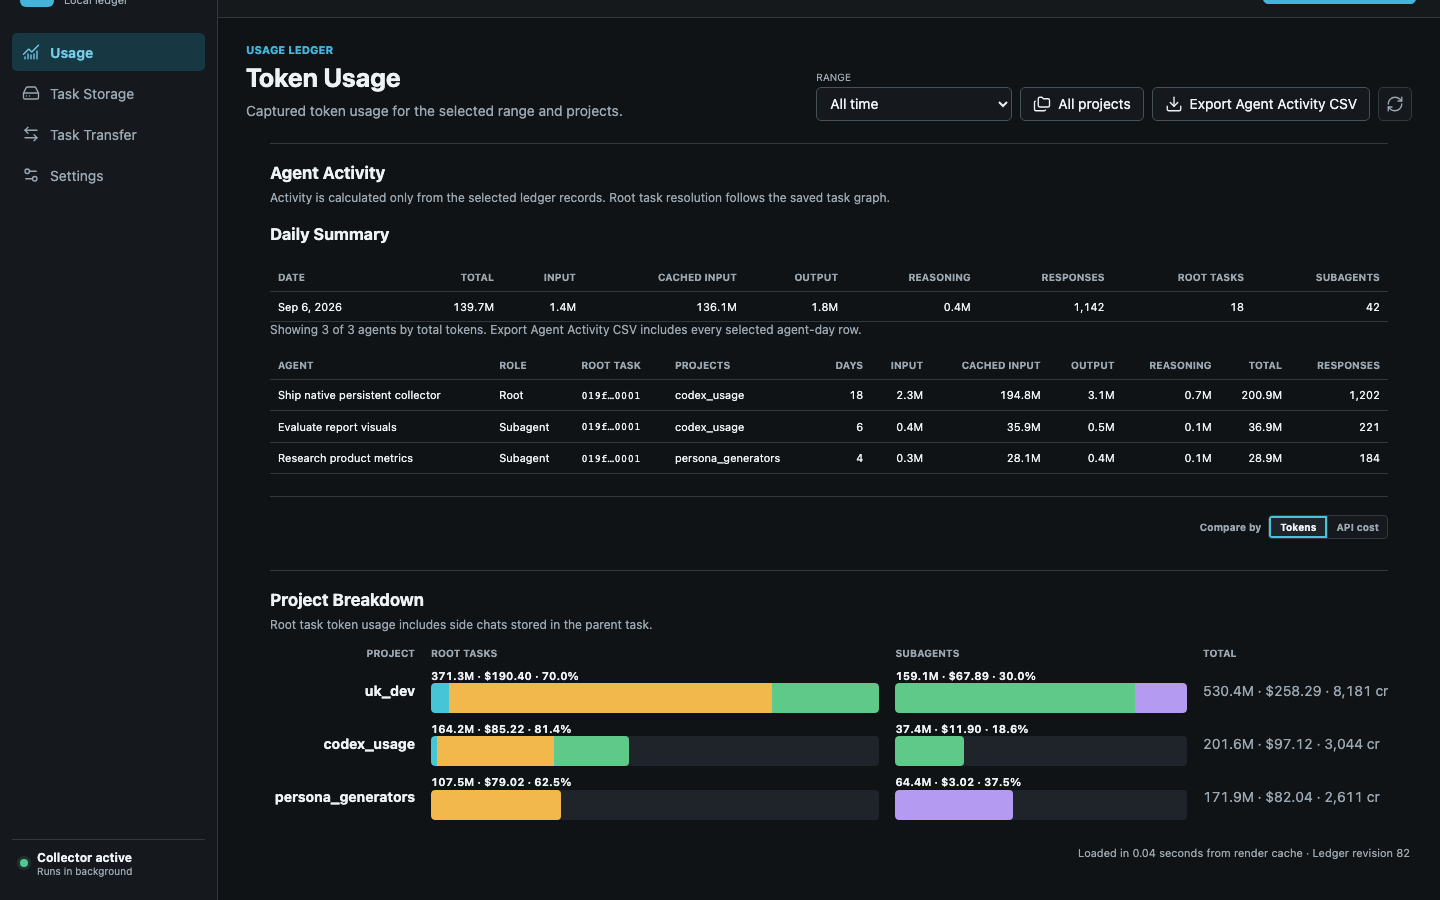
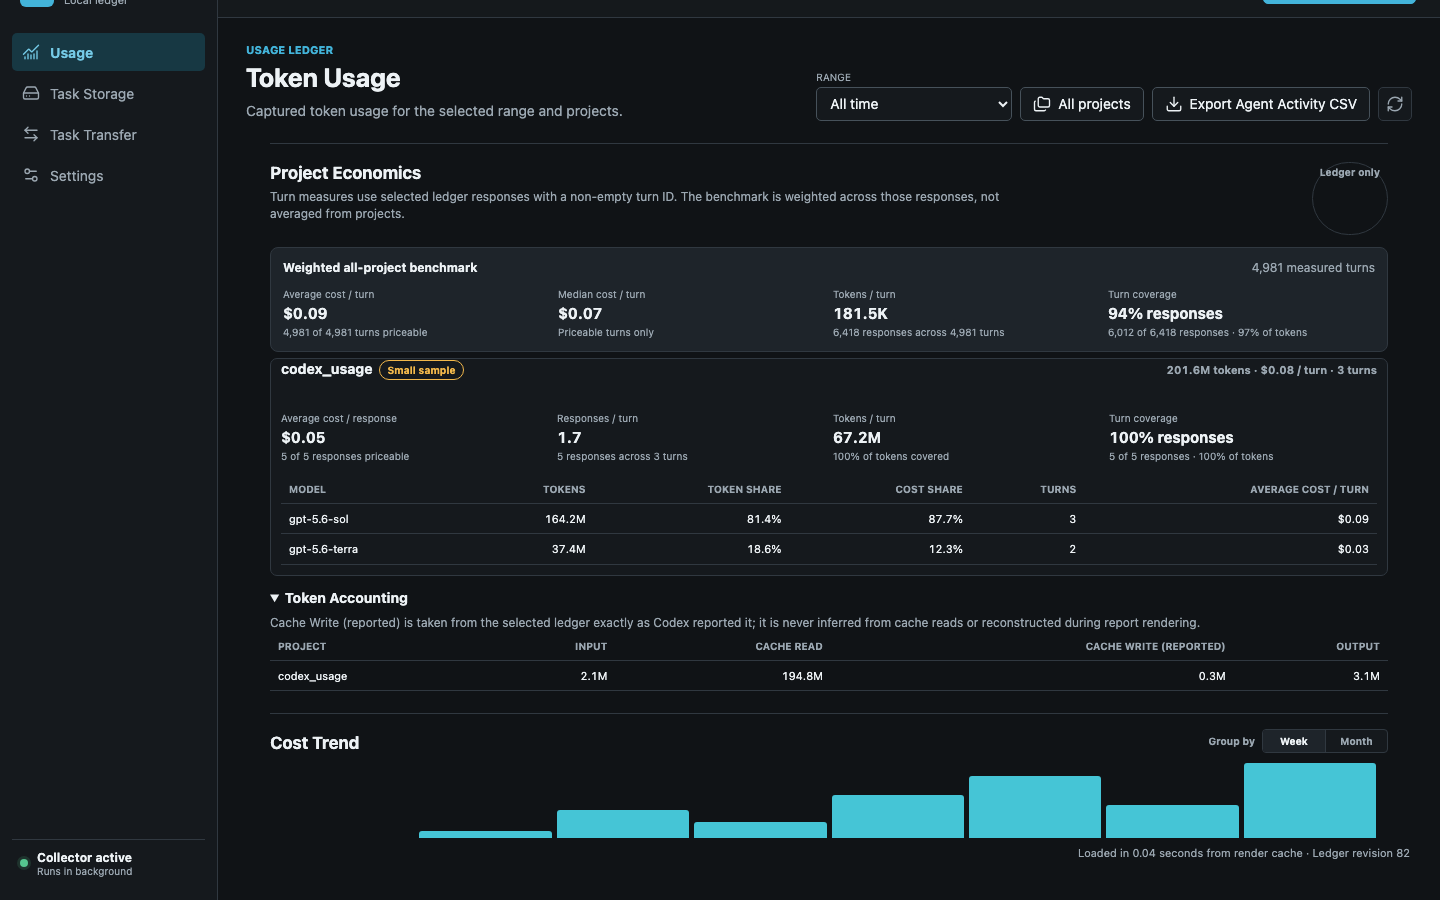
chore: prepare 2.6.0 release

diff --git a/apps/desktop/src/views.test.ts b/apps/desktop/src/views.test.ts
@@ -121,8 +121,9 @@ describe("native views", () => {
     expect(frame.srcdoc).toContain("API cost");
     expect(frame.srcdoc).toContain('id="compare-scale-cost"');
     expect(frame.srcdoc).toContain("--cost-width:");
-    expect(frame.srcdoc.indexOf("gpt-6-astra")).toBeLessThan(
-      frame.srcdoc.indexOf("gpt-5.6-sol"),
+    const modelMix = frame.srcdoc.slice(frame.srcdoc.indexOf("<h2>Model Mix</h2>"));
+    expect(modelMix.indexOf("gpt-6-astra")).toBeLessThan(
+      modelMix.indexOf("gpt-5.6-sol"),
     );
     expect(frame.srcdoc).toContain('data-codex-host="native"');
     expect(root.querySelector("#report-diagnostics")?.textContent).toContain(

diff --git a/extensions/vscode/src/extension.ts b/extensions/vscode/src/extension.ts
@@ -464,7 +464,7 @@ function controlState(): Pick<Parameters<typeof decorateUsageReport>[1], "range"
     range: selectedRange === "custom" ? customRangeLabel() : rangeLabel(selectedRange),
     theme: reportTheme(),
     projectCount: selectedProjects().length,
-    version: String(contextRef.extension.packageJSON.version ?? "2.5.0"),
+    version: String(contextRef.extension.packageJSON.version ?? "2.6.0"),
     lastCaptureAt: latestStatus?.last_capture_at ?? "",
   };
 }

diff --git a/apps/desktop/src/host.ts b/apps/desktop/src/host.ts
@@ -86,8 +86,8 @@ export async function checkForUpdate(): Promise<UpdateInfo> {
   if (!inTauri) {
     return {
       available: false,
-      current_version: "2.5.0",
-      version: "2.5.0",
+      current_version: "2.6.0",
+      version: "2.6.0",
       date: null,
       body: null,
     };

diff --git a/extensions/vscode/test/reportHtml.test.js b/extensions/vscode/test/reportHtml.test.js
@@ -14,7 +14,7 @@ const controls = {
   projectCount: 0,
   loadedSeconds: 0.04,
   cacheHit: true,
-  version: "2.5.0",
+  version: "2.6.0",
   view: "usage",
   lastCaptureAt: "2026-09-04T12:30:00Z",
 };

diff --git a/tests/test_report_command_breakdown.py b/tests/test_report_command_breakdown.py
@@ -61,6 +61,7 @@ def test_handle_report_builds_one_breakdown_without_project_or_model_aggregation
         daily_rows,
         hourly_rows,
         breakdown,
+        project_economics,
         sessions_dirs,
         files_scanned,
         storage_roots=None,
@@ -72,6 +73,7 @@ def test_handle_report_builds_one_breakdown_without_project_or_model_aggregation
         theme="auto",
     ):
         captured["breakdown"] = breakdown
+        captured["project_economics"] = project_economics
         return output_path
 
     def track_breakdown(valued_records):
@@ -90,6 +92,7 @@ def test_handle_report_builds_one_breakdown_without_project_or_model_aggregation
     assert aggregate_groups == ["day", "hour"]
     assert breakdown_calls == 1
     assert captured["breakdown"].project_rows[0].key == "repo"  # type: ignore[union-attr]
+    assert captured["project_economics"].projects[0].key == "repo"  # type: ignore[union-attr]
 
 
 def test_handle_report_passes_cached_data_and_one_storage_snapshot(

diff --git a/tests/test_github_actions_workflow.py b/tests/test_github_actions_workflow.py
@@ -159,7 +159,7 @@ def test_preview_artifacts_include_hash_based_integrity_metadata(tmp_path: Path)
         )
 
 
-def test_release_metadata_is_consistently_2_4_1() -> None:
+def test_release_metadata_is_consistently_2_6_0() -> None:
     pyproject = tomllib.loads(PYPROJECT.read_text(encoding="utf-8"))
     uv_lock = tomllib.loads(UV_LOCK.read_text(encoding="utf-8"))
     extension = json.loads(EXTENSION_PACKAGE.read_text(encoding="utf-8"))
@@ -192,7 +192,7 @@ def test_release_metadata_is_consistently_2_4_1() -> None:
         cargo["package"]["version"],
         rust_package["version"],
     }
-    assert versions == {"2.5.0"}
+    assert versions == {"2.6.0"}
     assert "scripts" not in pyproject["project"]
     assert "preview" not in extension
 

diff --git a/tests/test_release_history.py b/tests/test_release_history.py
@@ -10,6 +10,7 @@ CHANGELOGS = (ROOT / "CHANGELOG.md", ROOT / "extensions/vscode/CHANGELOG.md")
 SUPPORT_DOCS = (ROOT / "SUPPORT.md", ROOT / "extensions/vscode/SUPPORT.md")
 
 ROOT_RELEASE_DATES = {
+    "2.6.0": "2026-09-10",
     "2.5.0": "2026-09-07",
     "2.4.1": "2026-09-06",
     "2.4.0": "2026-09-06",
@@ -81,6 +82,7 @@ ROOT_RELEASE_DATES = {
     "0.1.0": "2026-05-19",
 }
 EXTENSION_RELEASE_VERSIONS = (
+    "2.6.0",
     "2.5.0",
     "2.4.1",
     "2.4.0",

diff --git a/src/codex_usage/agent_reports.py b/src/codex_usage/agent_reports.py
@@ -38,7 +38,7 @@ from codex_usage.reporting import render_html_report
 
 
 PRICING_REVISION = f"{PRICING_AS_OF}:{__version__}:bedrock-in-region-v1"
-REPORT_RENDER_REVISION = 5
+REPORT_RENDER_REVISION = 6
 
 
 @dataclass(frozen=True, slots=True)

diff --git a/src/codex_usage/__init__.py b/src/codex_usage/__init__.py
@@ -1,3 +1,3 @@
 """Private capture and ledger core for the Codex Usage native app."""
 
-__version__ = "2.5.0"
+__version__ = "2.6.0"

diff --git a/docs/release.md b/docs/release.md
@@ -1,6 +1,6 @@
-# 2.5 Distribution Checklist
+# 2.6 Distribution Checklist
 
-Version 2.5 publishes standalone macOS Apple Silicon and Windows x64 VSIX
+Version 2.6 publishes standalone macOS Apple Silicon and Windows x64 VSIX
 packages to the VS Code Marketplace. Each VSIX bundles its matching collector
 and does not require the native application.
 
@@ -84,6 +84,11 @@ sizes (1440 x 900 and 760 x 900). Confirm:
 - Project Breakdown and Model Mix share one accessible **Compare by** control,
   use distinct stable colors, preserve role-level API-equivalent cost, and
   switch coherently between token-scaled and cost-scaled bars;
+- Project Economics shows the weighted all-project benchmark and expandable
+  project/model details, and both it and Token Accounting disclosures are
+  keyboard-operable at wide and narrow sizes;
+- Token Accounting is collapsed by default and every cache-write label says
+  **Cache Write (reported)**;
 - every Model Mix row uses an equal-length neutral track in both comparison modes;
 - report content and tooltips are not clipped;
 - Task Storage exposes Analyze and cancellation without unrelated operations;
@@ -127,16 +132,16 @@ as a runtime dependency.
 
 ## Marketplace Publication
 
-Confirm all Python, npm, Cargo, Tauri, and lockfile versions are `2.5.0`, both
-changelogs have a dated `2.5.0` entry, and the candidate commit is contained in
+Confirm all Python, npm, Cargo, Tauri, and lockfile versions are `2.6.0`, both
+changelogs have a dated `2.6.0` entry, and the candidate commit is contained in
 `origin/main`.
 
-The only valid release tag for this version is `v2.5.0`. Create and push that
+The only valid release tag for this version is `v2.6.0`. Create and push that
 exact tag after the non-publishing gate succeeds:
 
 ```bash
-git tag v2.5.0
-git push origin v2.5.0
+git tag v2.6.0
+git push origin v2.6.0
 ```
 
 The tag reruns every platform gate and publishes these immutable Marketplace
@@ -150,8 +155,8 @@ codex-usage-companion-win32-x64.vsix
 The native jobs also produce these run-scoped artifacts:
 
 ```text
-Codex-Usage-2.5.0-macos-arm64-unsigned-preview.dmg
-Codex-Usage-2.5.0-windows-x64-unsigned-preview-setup.exe
+Codex-Usage-2.6.0-macos-arm64-unsigned-preview.dmg
+Codex-Usage-2.6.0-windows-x64-unsigned-preview-setup.exe
 preview-integrity.json
 SHA256SUMS.txt
 ```

diff --git a/README.md b/README.md
@@ -105,6 +105,8 @@ Open **Usage** to review:
   daily charts through 90 days and readable Week/Month periods for longer spans;
 - Agent Activity daily totals and the highest-token agents, with a complete
   host-saved CSV for the selected range and project filter;
+- ledger-only Project Economics with weighted all-project benchmarks plus
+  project and model turn cost, density, coverage, and small-sample context;
 - project totals and project transitions;
 - root-task versus structured-subagent usage, split again by model;
 - exact model details, including unknown or currently unpriced usage.
@@ -119,6 +121,13 @@ For the all-history range, **Week | Month** defaults to Week and switches the
 cost chart without another ledger query or report generation.
 Models are presented by generation and product tier with stable, distinct
 colors, while the bounded visual set still favors the highest-volume models.
+Project Economics counts distinct non-empty project/task/turn identities and
+weights the all-project benchmark from measured, priceable turns rather than
+averaging project averages. Blank turn IDs remain in totals and coverage but
+not turn denominators; unpriced usage remains in token totals and coverage but
+not cost denominators. Detailed Token Accounting is collapsed by default, and
+**Cache Write (reported)** always means the value stored in the selected ledger,
+not a value inferred from cache reads or reconstructed while rendering.
 Date, Agent Activity, export, and project changes query SQLite; chart-only controls do not. The reload icon re-queries the ledger without
 capturing task files; **Capture Usage** is the separate action that updates the
 ledger. The report shows generation time and whether its rendered-result cache was used.

diff --git a/docs/adr/README.md b/docs/adr/README.md
@@ -27,6 +27,7 @@ Read the learning notebook in [../learning](../learning) for the story behind th
 | [0017](0017-one-project-per-transfer-operation.md) | Constrain each Import and Export to one Codex project while keeping the transfer folder multi-project. |
 | [0040](0040-range-aware-temporal-cost-chart.md) | Preserve exact daily details while presenting long all-history cost trends in readable calendar periods. |
 | [0041](0041-custom-calendar-ranges-and-agent-activity.md) | Keep calendar ranges and Agent Activity ledger-only, bounded in the dashboard, and complete in host-saved CSV. |
+| [0042](0042-project-economics-and-cache-write-telemetry.md) | Define ledger-only project-turn economics and present cache-write values as reported source telemetry. |
 The current Task Transfer inventory contract is recorded in [ADR 0018](0018-user-visible-task-transfer-inventory.md).
 The bounded parallel cache refresh recovery contract is recorded in [ADR 0019](0019-bounded-parallel-cache-refresh.md).
 The incremental range-aware usage-cache contract is recorded in [ADR 0020](0020-incremental-range-aware-usage-cache.md).
@@ -51,3 +52,4 @@ The semantic model presentation and Project Breakdown cost-scale contract is rec
 The shared Usage comparison-scale contract is recorded in [ADR 0039](0039-shared-usage-comparison-scale.md).
 The range-aware temporal cost-chart contract is recorded in [ADR 0040](0040-range-aware-temporal-cost-chart.md).
 The custom calendar-range and ledger-only Agent Activity contract is recorded in [ADR 0041](0041-custom-calendar-ranges-and-agent-activity.md).
+The project-turn economics and reported cache-write telemetry contract is recorded in [ADR 0042](0042-project-economics-and-cache-write-telemetry.md).
